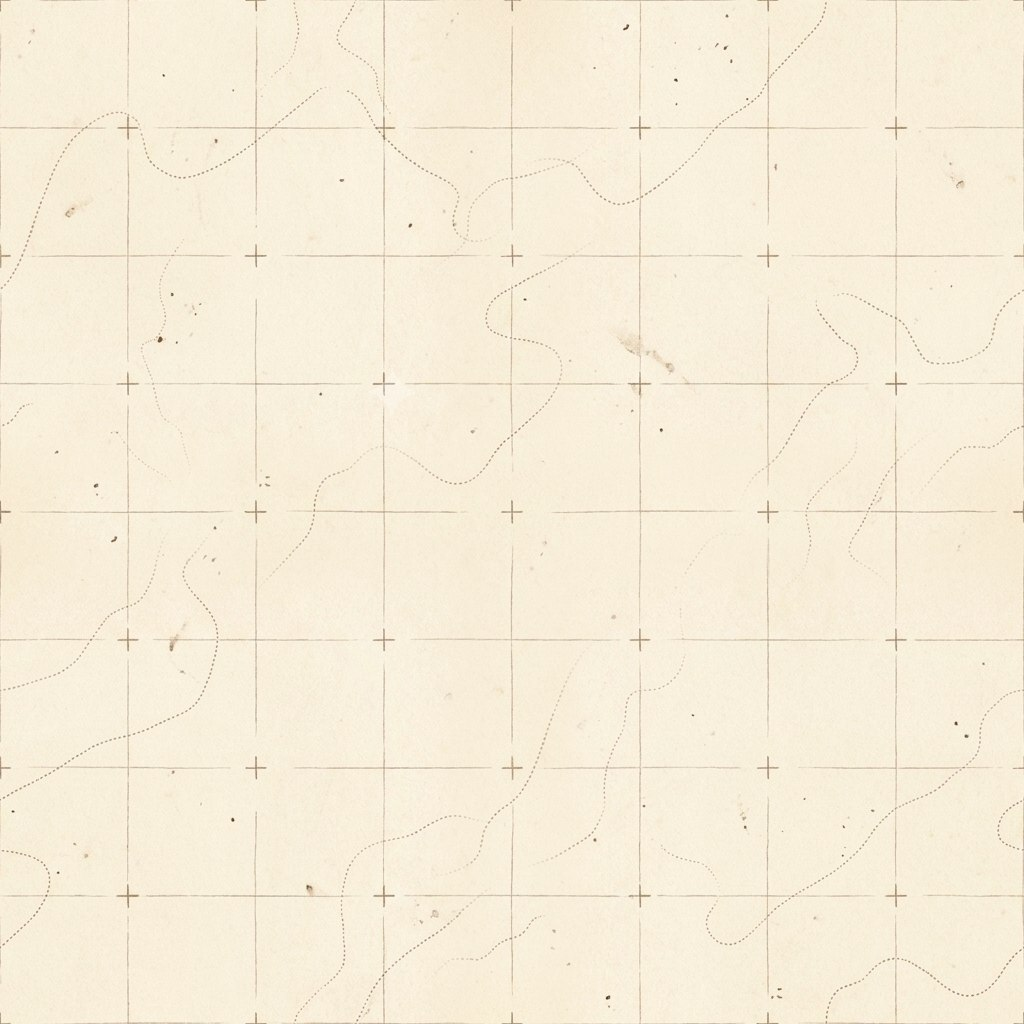
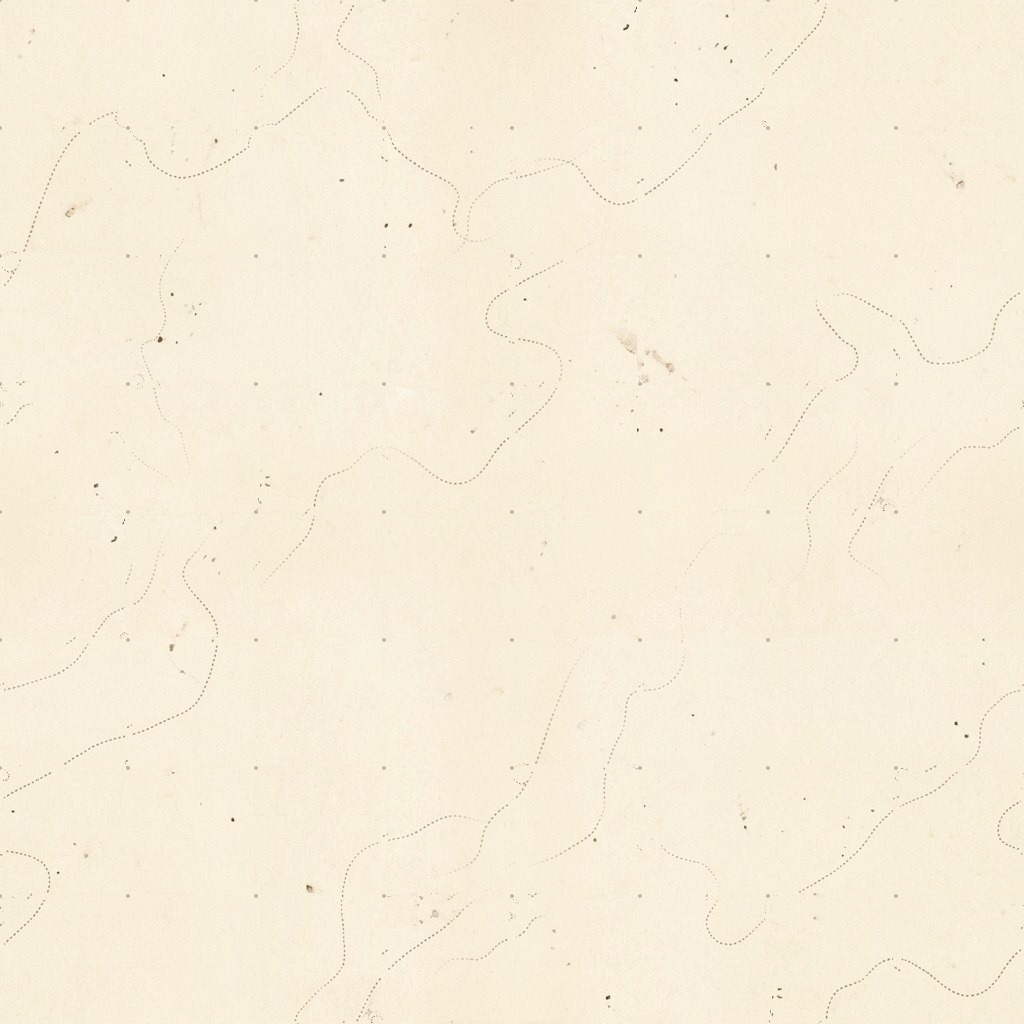
Family tree: de-line the survey-map background, color connectors per family
The ranch survey-map tiles had a straight 128px grid underneath the
grain/contour art, which read as visually confusable with the tree's own
rectilinear connectors. scripts/delined_tree_map_tiles.py surgically
erases just the straight strokes (texture, speckles, and dotted contour
lines untouched) and leaves a single dot at each former intersection.

In the "Everyone" view, each family's whole connector (bar + every
child's drop) now gets one hash-derived hue, stable across re-renders,
so overlapping families' dashed lines are traceable by color instead of
all reading as the same flat tan. Saturation/lightness stay at the
existing per-theme values — only hue varies, kept in a rust-to-olive
range to stay within the ranch map's palette. Marriage lines keep their
plain flat color in both themes.

Claude-Session: https://claude.ai/code/session_011kWScjpye1VRdoJh4aScYQ

diff --git a/app/static/js/tree.js b/app/static/js/tree.js
@@ -17,6 +17,32 @@
     return div.innerHTML.replace(/"/g, "&quot;").replace(/'/g, "&#39;");
   }
 
+  // Deterministic 32-bit string hash (FNV-1a) — used to pick a stable
+  // per-family line hue below, never for anything security-sensitive.
+  function hashString(str) {
+    var h = 2166136261;
+    for (var i = 0; i < str.length; i++) {
+      h ^= str.charCodeAt(i);
+      h = (h * 16777619) >>> 0;
+    }
+    return h >>> 0;
+  }
+
+  // One hue per family (parent group), so a reader can tell which
+  // crossing dashed line in the "Everyone" graph belongs to which
+  // couple's children instead of every drop-line reading as the same
+  // flat tan. Same parents always hash to the same hue — stable across
+  // re-renders, not reshuffled on every click. Range 8-98 stays within
+  // the ranch map's warm sepia/amber/olive family (see .tree-graph__link
+  // in main.css, base hue 38): rust at one end, olive at the other,
+  // never crossing into a blue/green/purple that would look foreign
+  // next to the parchment/leather. Saturation and lightness are left to
+  // CSS, which keeps them at the theme's existing values — only the hue
+  // varies.
+  function familyLineHue(key) {
+    return 8 + (hashString(key) % 90);
+  }
+
   function toGender(value) {
     if (value === "m") return "M";
     if (value === "f") return "F";
@@ -468,6 +494,7 @@
             childXs: childXs,
             parentTopY: parentLayer * (GRAPH_CARD_H + GRAPH_ROW_GAP),
             parentLayer: parentLayer,
+            hue: familyLineHue(group.parents.slice().sort().join("|")),
             approxMid:
               (Math.min.apply(null, centers.concat(childXs)) +
                 Math.max.apply(null, centers.concat(childXs))) /
@@ -537,10 +564,11 @@
           });
         });
 
-        function addLink(d) {
+        function addLink(d, hue) {
           var path = document.createElementNS(SVG_NS, "path");
           path.setAttribute("class", "tree-graph__link");
           path.setAttribute("d", d);
+          if (hue !== undefined) path.style.setProperty("--tree-line-hue", hue);
           edgesG.appendChild(path);
         }
 
@@ -568,7 +596,7 @@
           if (rightT.x - leftT.x < 1) {
             // Single parent directly above their only child: one
             // straight drop, no bar needed.
-            addLink("M" + leftT.x + "," + parentBottomY + "V" + rightT.y);
+            addLink("M" + leftT.x + "," + parentBottomY + "V" + rightT.y, geo.hue);
             return;
           }
 
@@ -589,10 +617,10 @@
           }
           var leftEnd = endCorner(leftT, 1);
           var rightEnd = endCorner(rightT, -1);
-          addLink(leftEnd.start + leftEnd.curve + "H" + rightEnd.barX);
-          addLink(rightEnd.start + rightEnd.curve);
+          addLink(leftEnd.start + leftEnd.curve + "H" + rightEnd.barX, geo.hue);
+          addLink(rightEnd.start + rightEnd.curve, geo.hue);
           terminals.slice(1, -1).forEach(function (t) {
-            addLink("M" + t.x + "," + t.y + "V" + laneY);
+            addLink("M" + t.x + "," + t.y + "V" + laneY, geo.hue);
           });
         });
 

diff --git a/app/static/css/main.css b/app/static/css/main.css
@@ -2905,10 +2905,20 @@ img.family-chip__thumb {
 
 /* Parent-child edges: dashed, matching the family-chart views' own
    saddle-stitch connectors. Partner edges: solid, so a marriage reads
-   differently at a glance from a generation drop-line. */
+   differently at a glance from a generation drop-line.
+
+   --tree-line-hue is set per element by tree.js's renderFamilyGraph, one
+   hash-derived value per family (parent group) so a reader can trace
+   which crossing dashed line belongs to which couple's children instead
+   of every drop-line reading as the same flat tan. The hash only ever
+   picks a hue (see familyLineHue's 8-98 range: rust through amber to
+   olive) — saturation/lightness stay exactly the pre-F18-followup
+   per-theme values below, so every family's line still reads as "map
+   ink" rather than a clashing color. Partner edges opt back out to the
+   plain flat color: a marriage isn't one of a family's drop-lines. */
 .tree-graph__link {
   fill: none;
-  stroke: #a08b66;
+  stroke: hsl(var(--tree-line-hue, 38), 23%, 51%);
   stroke-width: 1.6px;
   stroke-dasharray: 7 4;
   stroke-linecap: round;
@@ -2916,17 +2926,27 @@ img.family-chip__thumb {
 }
 
 .tree-graph__link--partner {
+  stroke: #a08b66;
   stroke-dasharray: none;
 }
 
 @media (prefers-color-scheme: light) {
   :root:not([data-theme]) .tree-graph__link {
+    stroke: hsl(var(--tree-line-hue, 38), 18%, 46%);
+  }
+
+  :root:not([data-theme]) .tree-graph__link--partner {
     stroke: #8a7a5f;
   }
 }
 
 :root[data-theme="light"] .tree-graph__link,
 :root[data-theme="manuscript"] .tree-graph__link {
+  stroke: hsl(var(--tree-line-hue, 38), 18%, 46%);
+}
+
+:root[data-theme="light"] .tree-graph__link--partner,
+:root[data-theme="manuscript"] .tree-graph__link--partner {
   stroke: #8a7a5f;
 }
 

diff --git a/scripts/delined_tree_map_tiles.py b/scripts/delined_tree_map_tiles.py
@@ -1,0 +1,140 @@
+"""One-off touch-up of the /tree survey-map background tiles: erases the
+straight horizontal/vertical grid lines (and the bolder "+" ticks at their
+intersections) while leaving everything else — leather/parchment grain,
+speckles, the wandering dotted contour lines — untouched, then drops a
+single small dot at each former intersection so the tiles still read as a
+surveyed map without any axis-aligned strokes that could be confused with
+the tree's own rectilinear connector lines.
+
+Operates in place on the four tiles under app/static/img/tree-map-tile*.jpg.
+Not part of the app; run manually if the tiles ever need retouching again:
+
+    python scripts/delined_tree_map_tiles.py
+"""
+
+import math
+import sys
+from pathlib import Path
+
+sys.path.insert(0, str(Path(__file__).resolve().parent.parent))
+
+from PIL import Image  # noqa: E402
+
+GRID_STEP = 128
+SIZE = 1024
+GRID_COORDS = list(range(0, SIZE, GRID_STEP))
+
+# Thin-line erase: replace a narrow band straddling each grid coordinate
+# with a straight copy of the real texture a few pixels further into the
+# same cell (not a blend — averaging pixels either side of the band wipes
+# out the fine grain and leaves a smoother, MORE visible stripe than the
+# line it replaced). The shift has to stay well inside the 128px cell so
+# the source pixels are never themselves part of another grid line.
+LINE_BAND = 3
+LINE_SHIFT = 24
+
+# Intersection patch: the bold "+" tick extends further than the thin
+# line, so each of the 8x8 crossing points gets a separate circular
+# "shrink" inpaint (sample radius r reflected out to 2*RADIUS-r, the
+# standard blemish-removal trick) big enough to swallow the tick.
+TICK_RADIUS = 20
+FEATHER = 5
+
+# Landmark dot left behind at each former intersection: a small, low
+# opacity mark, not a stroke — enough to still read as a measured
+# reference point without drawing any line.
+DOT_RADIUS = 1.6
+
+
+def erase_grid_lines(img):
+    px = img.load()
+    w, h = img.size
+
+    # Verticals: replace each column in the band with a straight copy of
+    # the column LINE_SHIFT further right, full height.
+    for g in GRID_COORDS:
+        for x in range(g - LINE_BAND, g + LINE_BAND + 1):
+            src_x = (x + LINE_SHIFT) % w
+            dst_x = x % w
+            for y in range(h):
+                px[dst_x, y] = px[src_x, y]
+
+    # Horizontals: same idea, shifted down instead of right. Runs after
+    # the vertical pass so any row it copies from is already line-free.
+    for g in GRID_COORDS:
+        for y in range(g - LINE_BAND, g + LINE_BAND + 1):
+            src_y = (y + LINE_SHIFT) % h
+            dst_y = y % h
+            for x in range(w):
+                px[x, dst_y] = px[x, src_y]
+
+
+def patch_intersections(img):
+    px = img.load()
+    w, h = img.size
+    src = img.copy()
+    spx = src.load()
+
+    for gx in GRID_COORDS:
+        for gy in GRID_COORDS:
+            for dy in range(-TICK_RADIUS - FEATHER, TICK_RADIUS + FEATHER + 1):
+                for dx in range(-TICK_RADIUS - FEATHER, TICK_RADIUS + FEATHER + 1):
+                    r = math.hypot(dx, dy)
+                    if r > TICK_RADIUS + FEATHER:
+                        continue
+                    x = (gx + dx) % w
+                    y = (gy + dy) % h
+                    if r <= TICK_RADIUS:
+                        rr = 2 * TICK_RADIUS - r
+                    else:
+                        rr = r
+                    if r < 1e-6:
+                        sx, sy = gx, gy - rr
+                    else:
+                        scale = rr / r
+                        sx = gx + dx * scale
+                        sy = gy + dy * scale
+                    fetched = spx[round(sx) % w, round(sy) % h]
+                    if r <= TICK_RADIUS:
+                        px[x, y] = fetched
+                    else:
+                        # Feather the seam between the reflected fill and
+                        # the untouched original over a few pixels.
+                        blend = (r - TICK_RADIUS) / FEATHER
+                        original = spx[x, y]
+                        px[x, y] = (
+                            round(fetched[0] * (1 - blend) + original[0] * blend),
+                            round(fetched[1] * (1 - blend) + original[1] * blend),
+                            round(fetched[2] * (1 - blend) + original[2] * blend),
+                        )
+
+
+def draw_landmark_dots(img, dot_color):
+    from PIL import ImageDraw
+
+    overlay = Image.new("RGBA", img.size, (0, 0, 0, 0))
+    draw = ImageDraw.Draw(overlay)
+    r = DOT_RADIUS
+    for gx in GRID_COORDS:
+        for gy in GRID_COORDS:
+            draw.ellipse((gx - r, gy - r, gx + r, gy + r), fill=dot_color)
+    img.paste(Image.alpha_composite(img.convert("RGBA"), overlay).convert("RGB"))
+
+
+def delined(path, dot_color):
+    img = Image.open(path).convert("RGB")
+    erase_grid_lines(img)
+    patch_intersections(img)
+    draw_landmark_dots(img, dot_color)
+    img.save(path, format="JPEG", quality=92)
+    print("wrote", path)
+
+
+def main():
+    img_dir = Path(__file__).resolve().parent.parent / "app" / "static" / "img"
+    delined(img_dir / "tree-map-tile.jpg", dot_color=(154, 130, 92, 130))
+    delined(img_dir / "tree-map-tile-dark.jpg", dot_color=(196, 176, 132, 110))
+
+
+if __name__ == "__main__":
+    main()

diff --git a/FEATURES.md b/FEATURES.md
@@ -2765,3 +2765,72 @@ co-parents fixture, the blended fixture, and the 30-person ring — all
 consistency metrics unchanged from round 6 (connector geometry doesn't
 move cards), zero overlaps, every line starting at a real card. `pytest`
 (664), `ruff check .`, and the 36 Node tests green.
+
+## "Everyone" round 8 — de-lined survey map, per-family connector colors
+
+Two pieces of user feedback on the ranch survey-map background (R5.7):
+the straight horizontal/vertical grid lines it drew competed visually
+with the tree's own rectilinear connectors, and every family's dashed
+drop-lines were the same flat tan, so a crowded generation with several
+overlapping bars (round 7's own "traceable connector lines" note) was
+still only traceable by eye, not by color.
+
+**De-lining the tiles.** `tree-map-tile.jpg`/`tree-map-tile-dark.jpg`
+(the seamless 1024px raster tiles from the "moving survey map" round)
+had a genuine 128px-period grid — thin lines running the full tile
+height/width at x/y = 0, 128, 256, …, 896, plus a bolder "+" tick where
+they crossed — sitting underneath the wandering dotted contour lines
+and paper/leather grain. Rather than regenerating the art from scratch
+(which would have thrown away the hand-tuned grain and contour work),
+`scripts/delined_tree_map_tiles.py` surgically erases just the straight
+strokes and leaves everything else pixel-for-pixel alone:
+
+- Each thin line band is replaced with a straight copy of the real
+  texture ~24px further into the same 128px cell (far enough to never
+  land on another line) — not a blend of the flanking pixels, which was
+  tried first and left a visibly smoother/flatter stripe than the line
+  it erased, especially on the high-contrast dark leather grain.
+- Each intersection's bolder tick (wider than the thin-line band) gets
+  its own small "shrink" inpaint — pixels inside a ~20px radius are
+  resampled from a point reflected further out along the same radius,
+  the standard round-blemish-removal trick, feathered over a few pixels
+  into the untouched surroundings.
+- A single low-opacity dot is dropped at each former intersection
+  afterward — enough that the tile still reads as a measured survey
+  map, without reintroducing any actual line.
+
+Run manually (`python scripts/delined_tree_map_tiles.py`); not part of
+the app, and not expected to run again unless the tiles are retouched
+further. Verified by re-deriving the grid coordinates from column/row
+brightness averages on the output (none left) and by tiling the result
+2×2 to confirm the shift-copy and dot placement stay seamless across
+the tile boundary.
+
+**Per-family connector colors** (`tree.js`'s `renderFamilyGraph`,
+"Everyone" view only — this is where families' bars actually overlap;
+the vendored family-chart hourglass views don't have the same
+converging-lines problem and their link rendering isn't ours to hand
+patch). Each `parentEdgeGroups` entry (one couple/co-parent pair plus
+their children — the same grouping round 7's T-bar drops from) now
+carries a `hue`, hashed (FNV-1a) from its sorted parent-id key so the
+same family always gets the same color across re-renders rather than
+reshuffling on every click. Every path segment belonging to that
+family's bar — both corner curves, the horizontal run, and every
+child's drop — gets the hue via an inline `--tree-line-hue` custom
+property; `.tree-graph__link` in `main.css` consumes it in
+`hsl(var(--tree-line-hue, 38), S%, L%)`, with saturation and lightness
+left exactly at the pre-round-8 per-theme values (23%/51% dark, 18%/46%
+light) — only the hue rotates, across a fixed 8–98 range (rust through
+amber to olive) chosen to stay inside the ranch map's warm sepia
+family rather than wandering into a blue/green/purple that would look
+foreign next to the parchment or leather. Partner (marriage) lines
+opt back out to the flat pre-round-8 color in both themes — a marriage
+isn't one of a family's drop-lines, and was never part of the
+"which line goes where" confusion.
+
+Verified visually (Playwright, both themes) against a seeded
+multi-branch family (three grandparent-couple branches, several
+marriages, cousins): every couple's whole connector — bar and all —
+reads as one consistent, distinct color, siblings' drops all match
+their shared parents' bar, and marriage lines stay the plain flat tan
+in both light and dark. `pytest` (664) and `ruff check .` green.